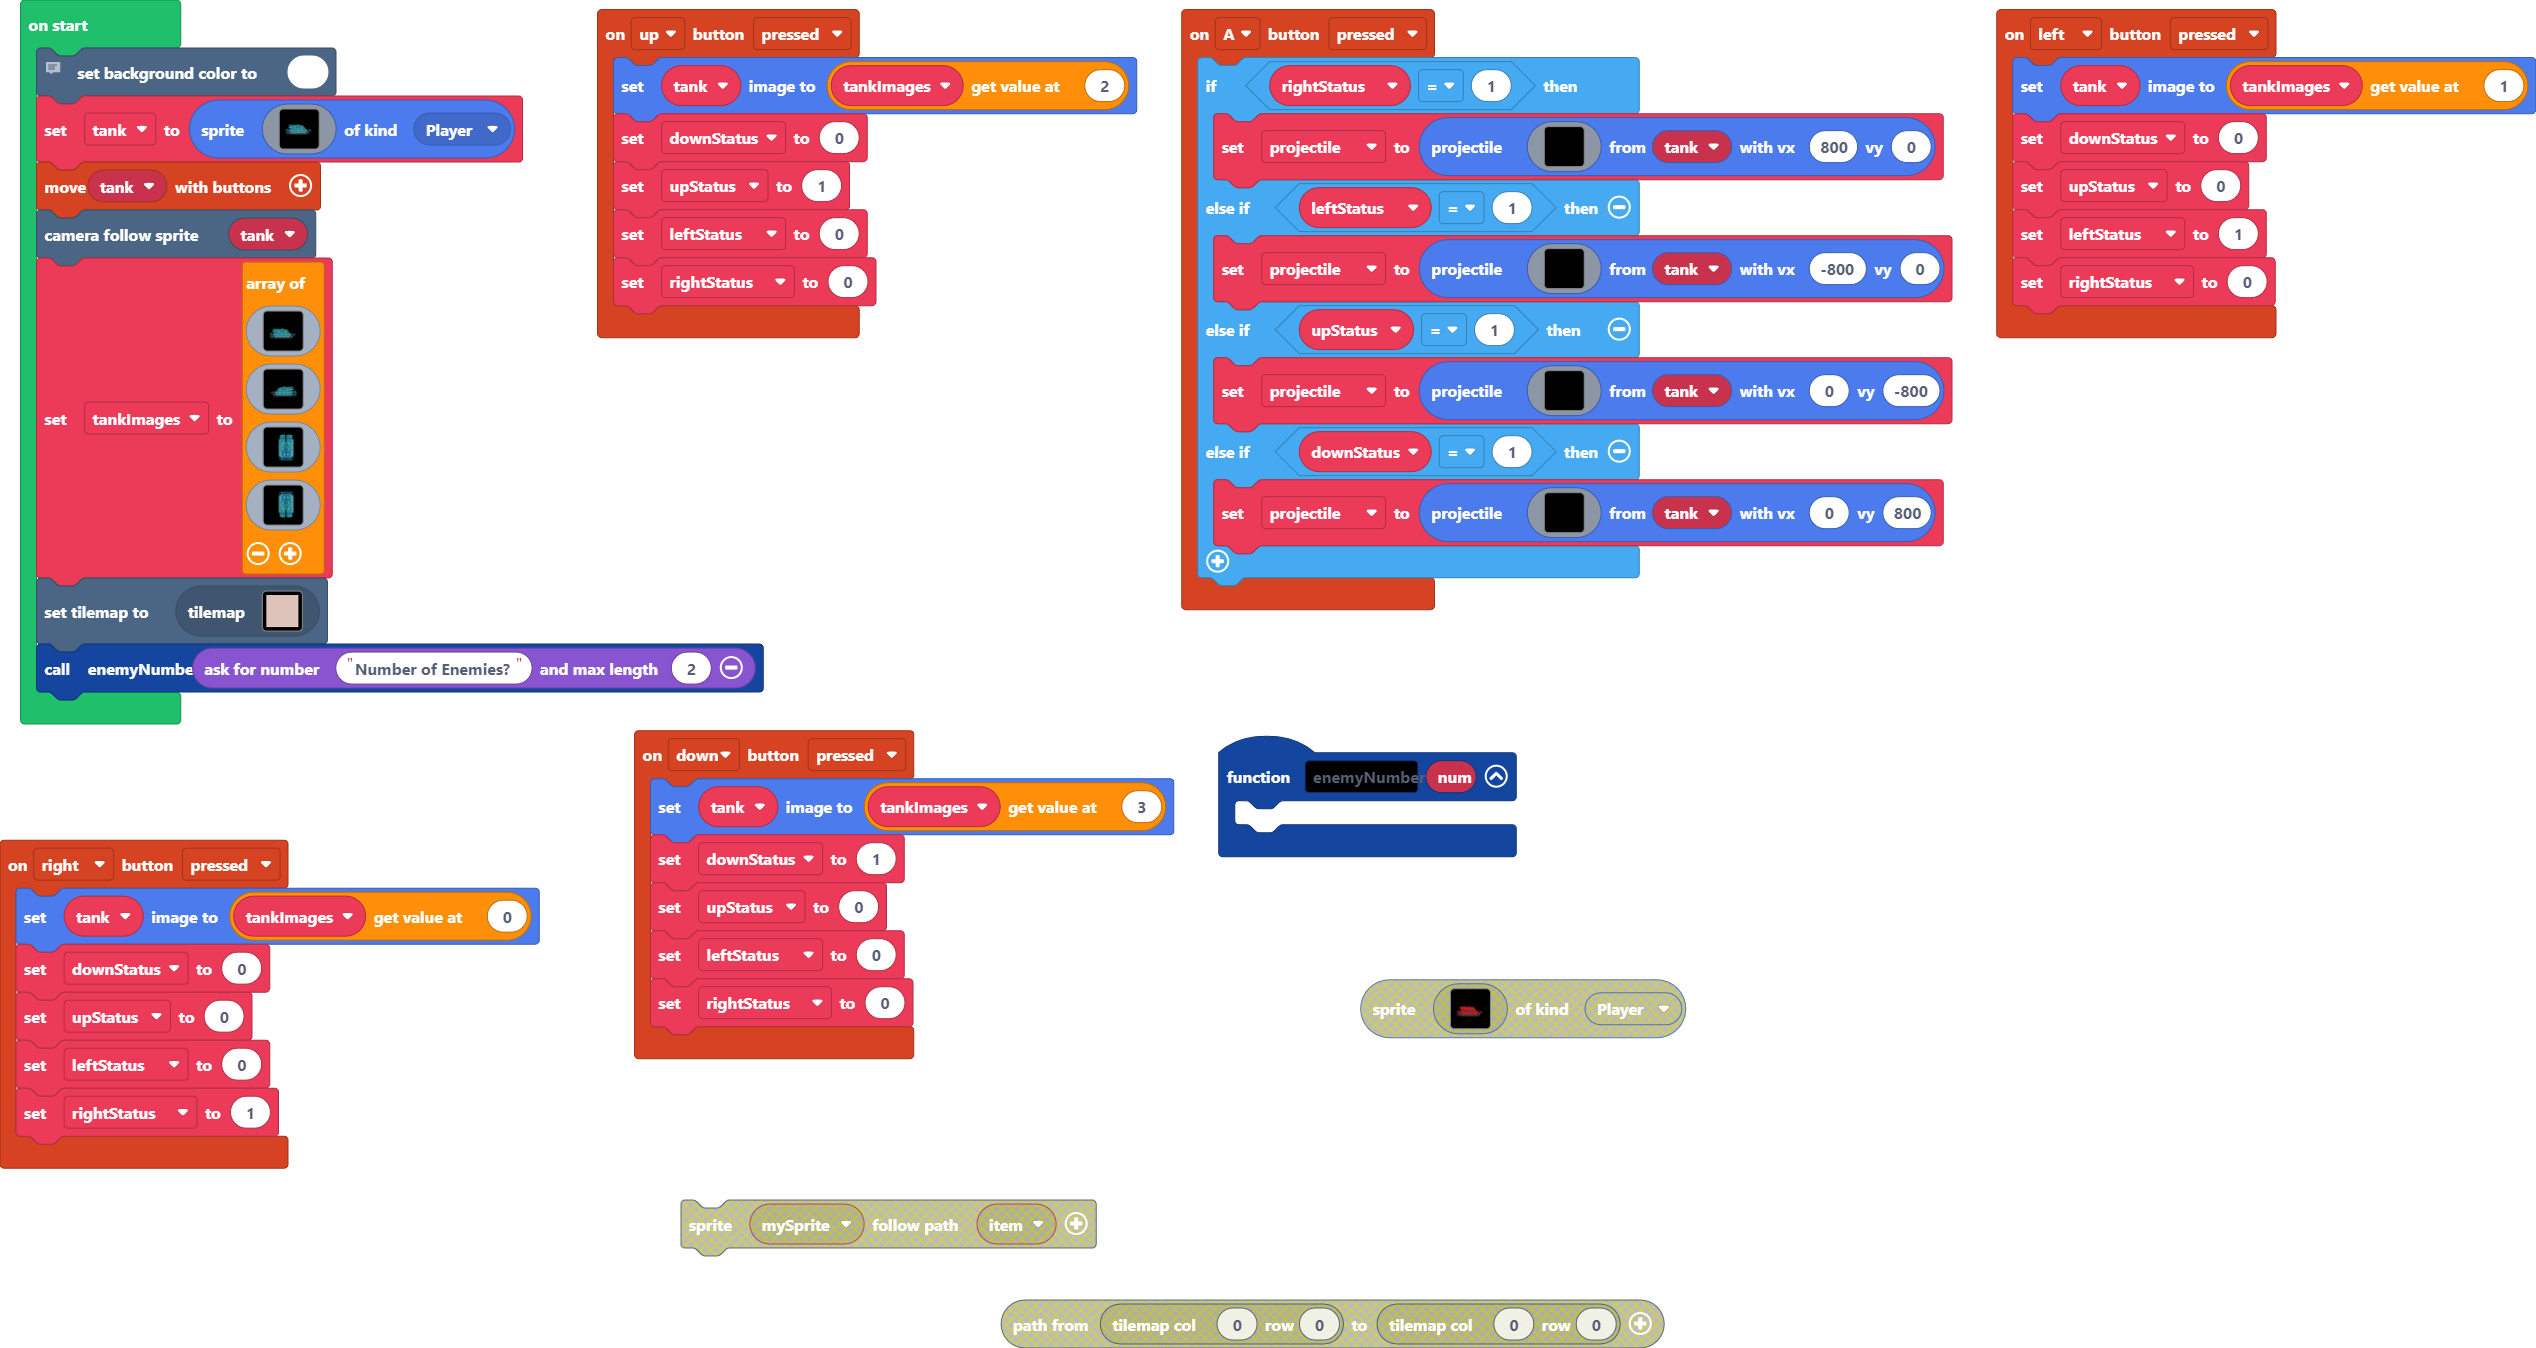
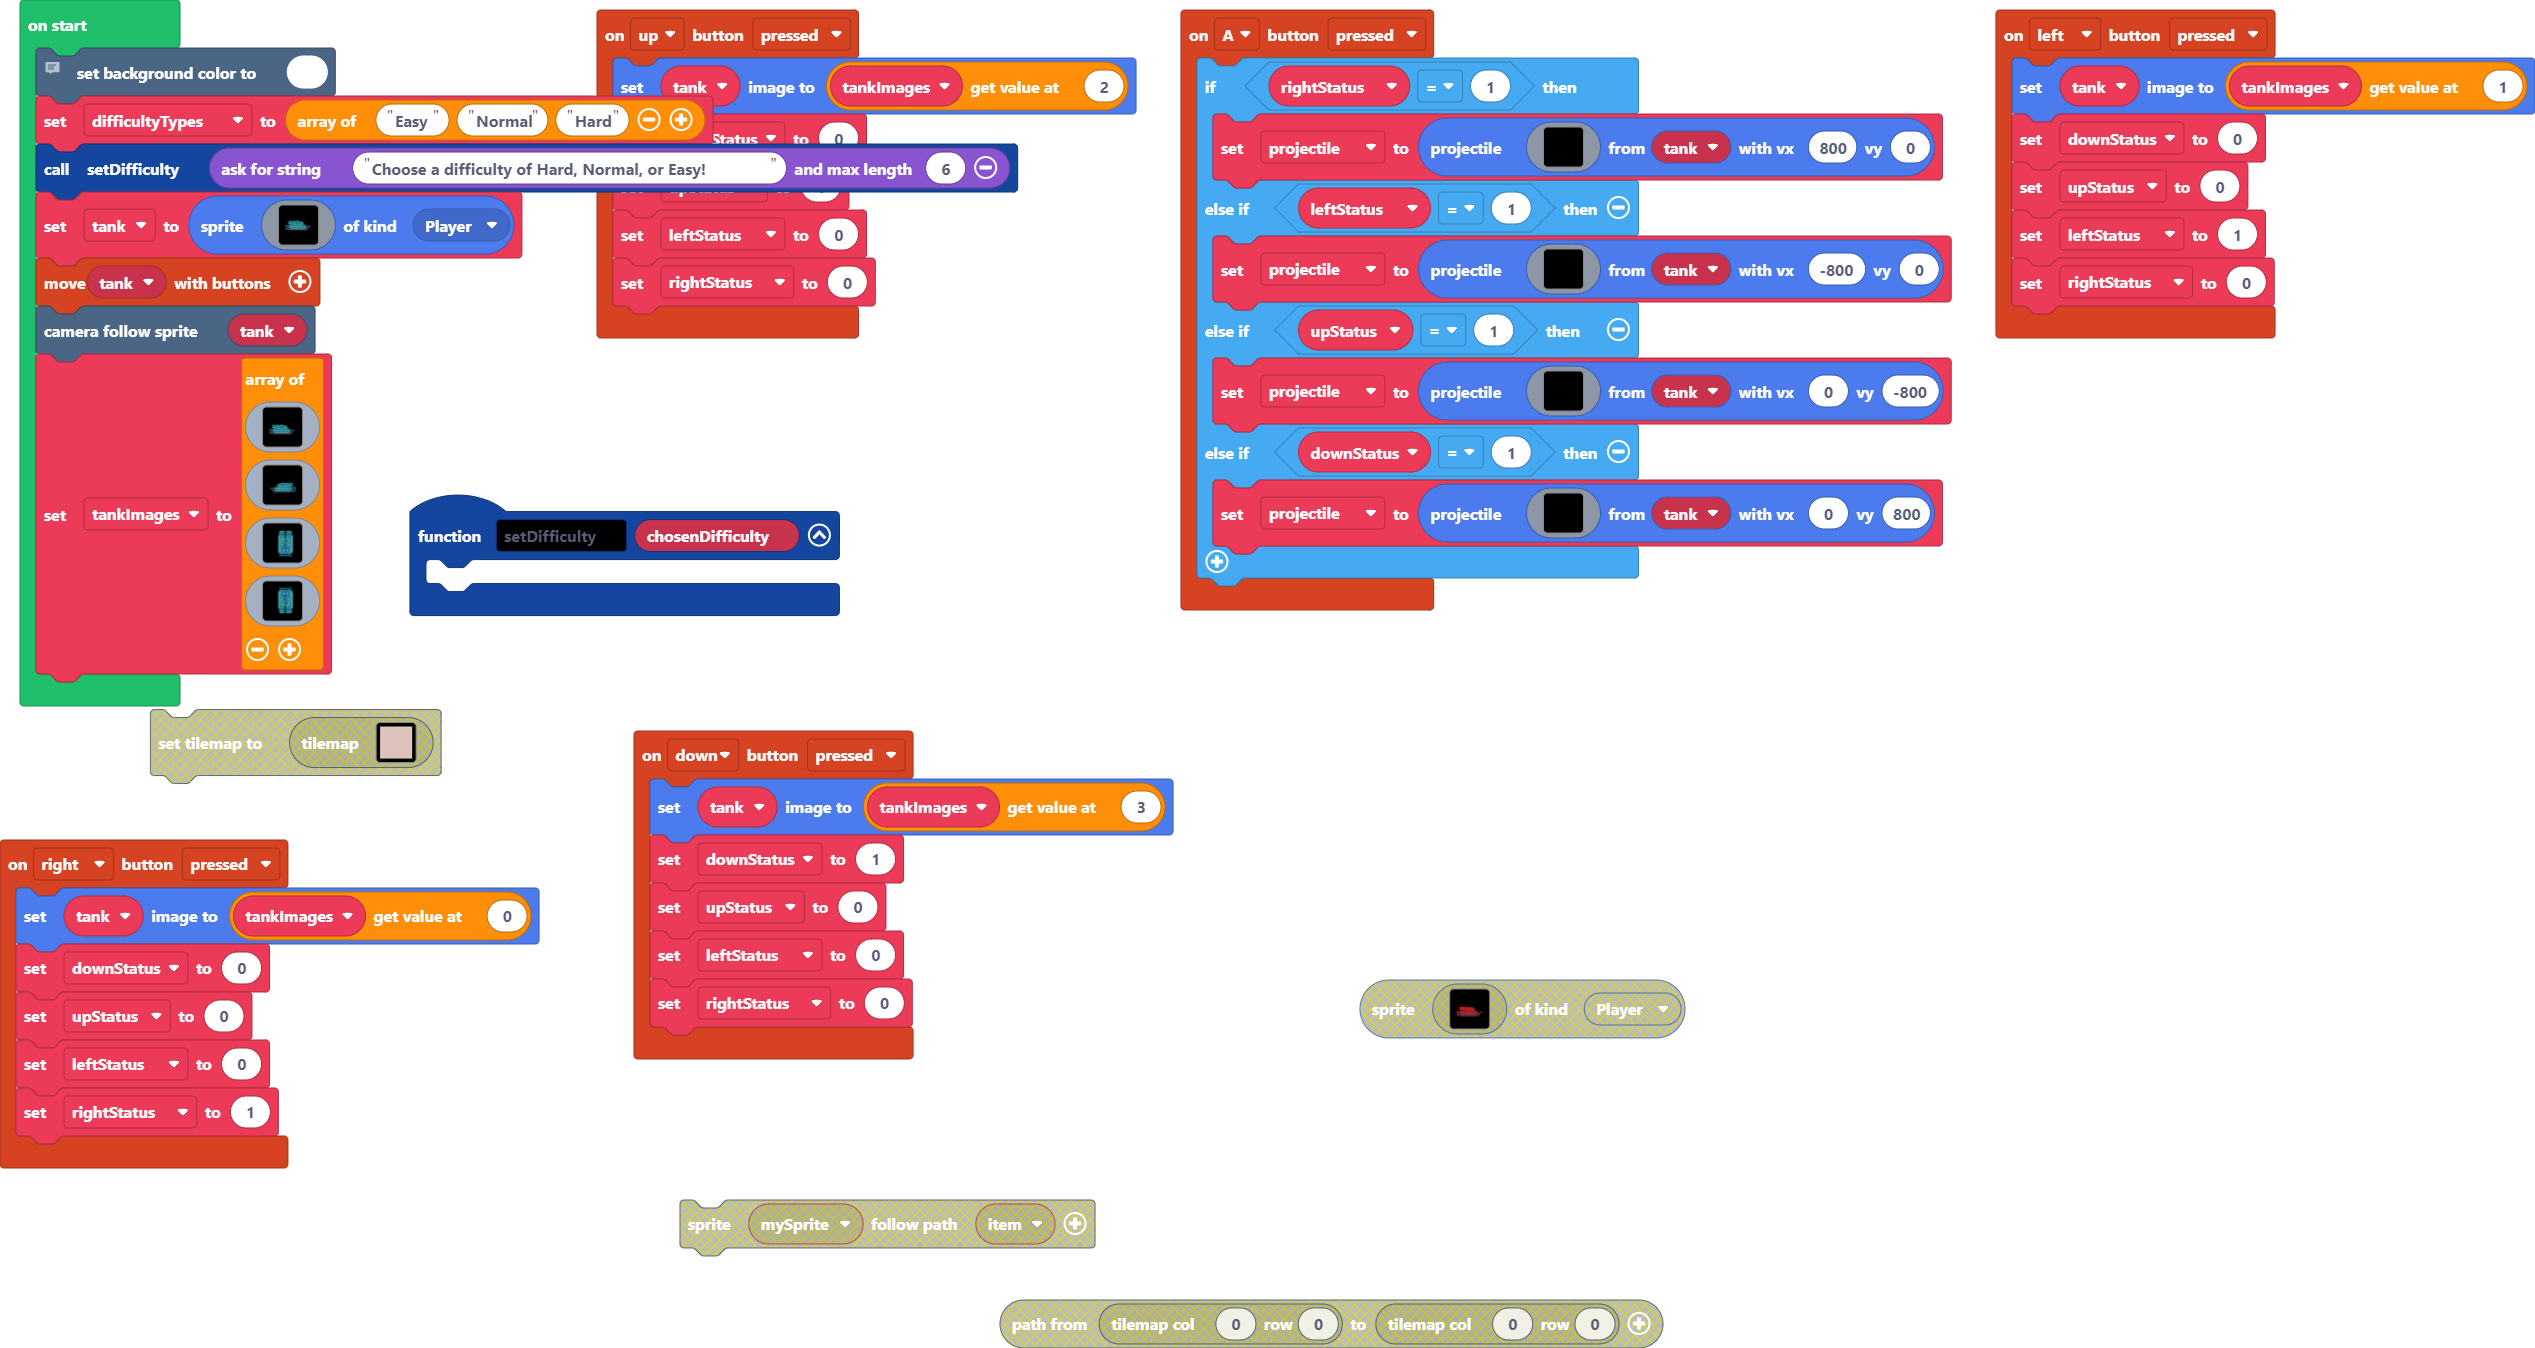
Update main.blocks, main.ts

diff --git a/main.ts b/main.ts
@@ -91,7 +91,7 @@ controller.left.onEvent(ControllerButtonEvent.Pressed, function () {
     leftStatus = 1
     rightStatus = 0
 })
-function enemyNumber (num: number) {
+function setDifficulty (chosenDifficulty: string) {
 	
 }
 controller.right.onEvent(ControllerButtonEvent.Pressed, function () {
@@ -117,6 +117,8 @@ let tankImages: Image[] = []
 let tank: Sprite = null
 // EXTENTION: https://github.com/jwunderl/arcade-tilemap-a-star
 scene.setBackgroundColor(1)
+let difficultyTypes = ["Easy", "Normal", "Hard"]
+setDifficulty(game.askForString("Choose a difficulty of Hard, Normal, or Easy!", 6))
 tank = sprites.create(img`
     ................................................................
     ................................................................
@@ -355,5 +357,3 @@ img`
     .............................ff.................
     `
 ]
-tiles.setCurrentTilemap(tilemap`level1`)
-enemyNumber(game.askForNumber("Number of Enemies?", 2))
